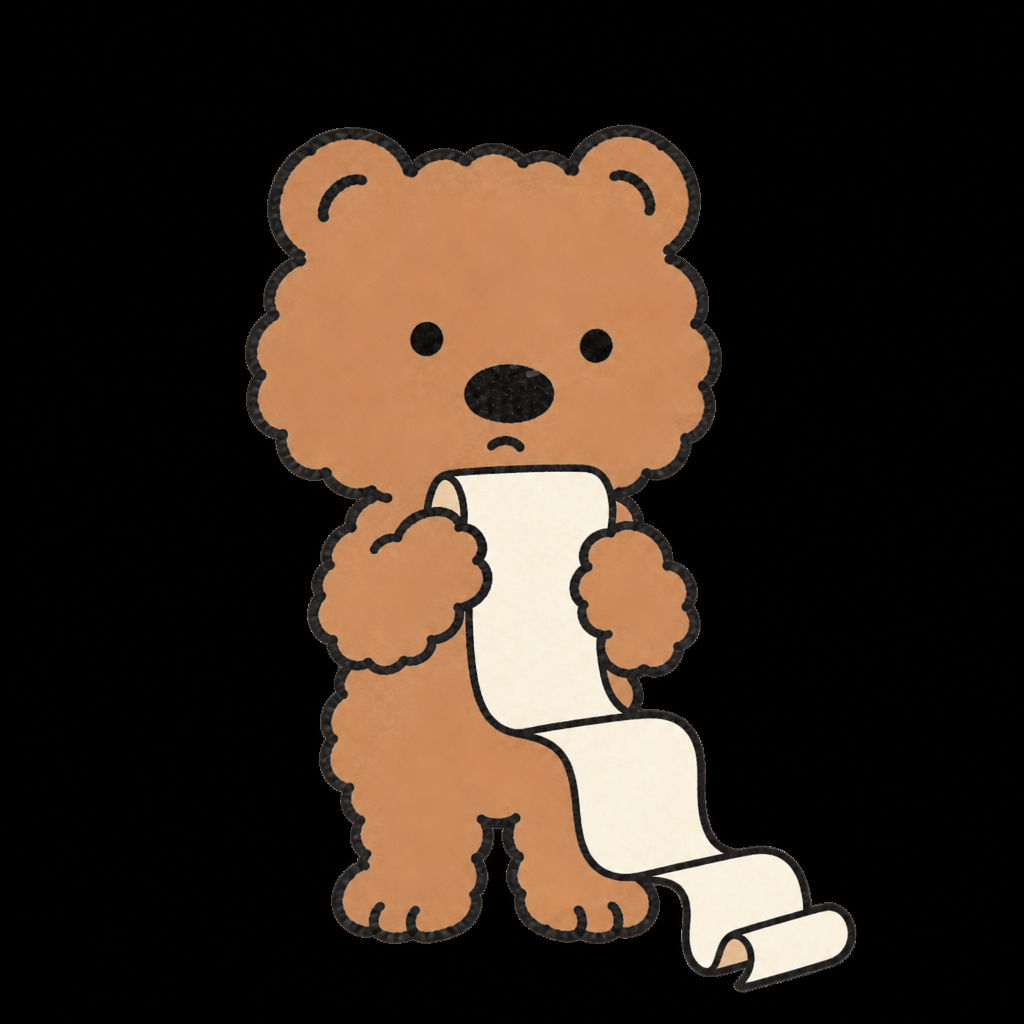
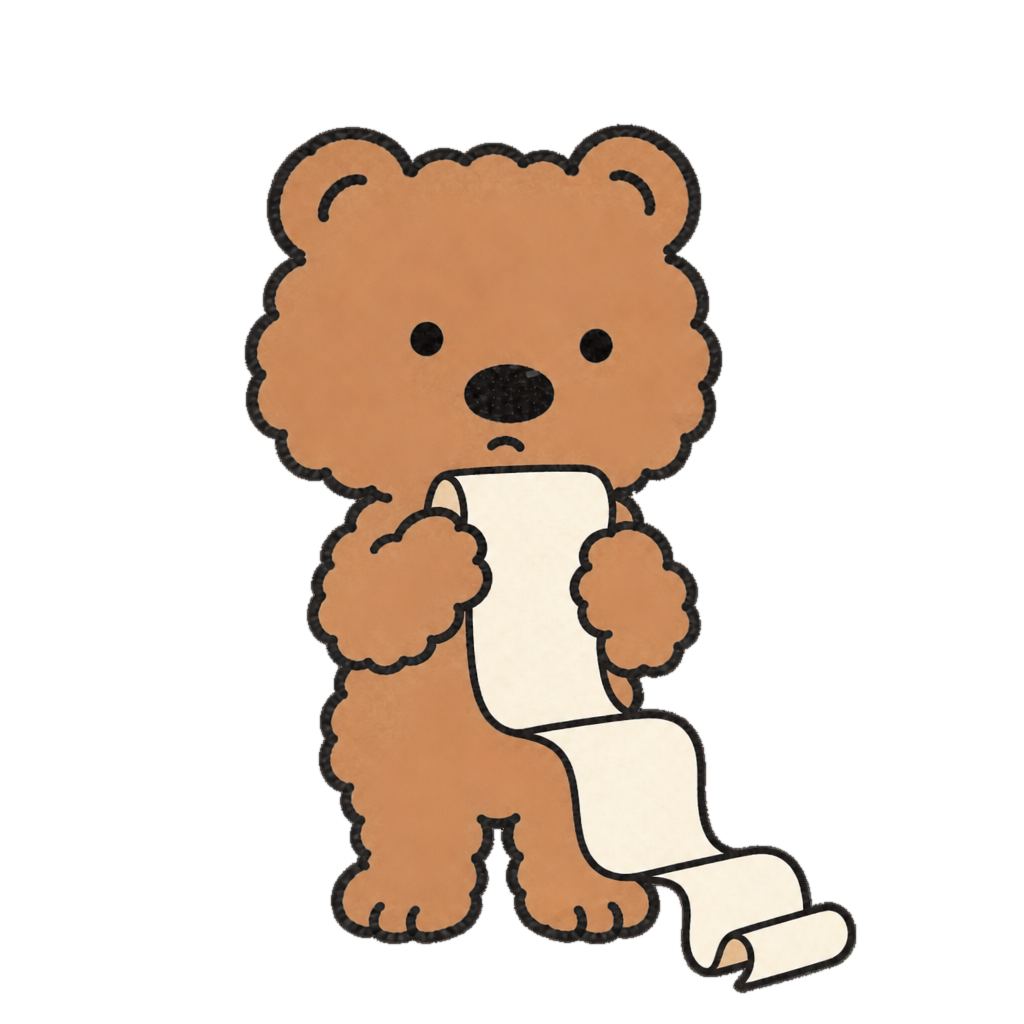
새 동물 이미지 누끼와 제작 가이드 보정

diff --git a/scripts/clean-companion-alpha.py b/scripts/clean-companion-alpha.py
@@ -1,0 +1,169 @@
+"""Remove pale background residue from companion PNGs without thickening outlines.
+
+The generated companions already contain an alpha channel, but some sprites retain
+opaque or semi-transparent off-white matte pixels outside the ink outline.  This
+script removes only pale, low-chroma pixels connected to the transparent exterior,
+then decontaminates remaining anti-aliased edge RGB from nearby opaque artwork.
+"""
+
+from __future__ import annotations
+
+from collections import deque
+from pathlib import Path
+
+import numpy as np
+from PIL import Image, ImageFilter
+
+
+ROOT = Path(__file__).resolve().parents[1]
+COMPANIONS = ROOT / "web/public/assets/characters/companions"
+ACTIVE_SETS = ("foodie", "shopper", "subscriber")
+
+
+def exterior_matte(rgb: np.ndarray, alpha: np.ndarray) -> np.ndarray:
+    """Find pale neutral matte pixels connected to the transparent exterior."""
+    maximum = rgb.max(axis=2)
+    minimum = rgb.min(axis=2)
+    candidate = (minimum >= 210) & ((maximum - minimum) <= 38) & (alpha > 0)
+    transparent = alpha <= 4
+    height, width = alpha.shape
+    visited = np.zeros_like(candidate)
+    queue: deque[tuple[int, int]] = deque()
+
+    # Matte pixels must touch existing transparency. This avoids erasing light fur
+    # and the white receipt enclosed by the character's dark ink outline.
+    ys, xs = np.nonzero(candidate)
+    for y, x in zip(ys.tolist(), xs.tolist()):
+        y0, y1 = max(0, y - 1), min(height, y + 2)
+        x0, x1 = max(0, x - 1), min(width, x + 2)
+        if transparent[y0:y1, x0:x1].any():
+            visited[y, x] = True
+            queue.append((y, x))
+
+    while queue:
+        y, x = queue.popleft()
+        for ny in range(max(0, y - 1), min(height, y + 2)):
+            for nx in range(max(0, x - 1), min(width, x + 2)):
+                if candidate[ny, nx] and not visited[ny, nx]:
+                    visited[ny, nx] = True
+                    queue.append((ny, nx))
+    return visited
+
+
+def decontaminate_edges(rgb: np.ndarray, alpha: np.ndarray) -> None:
+    """Copy nearby solid artwork colour into semi-transparent edge pixels."""
+    edge = (alpha > 4) & (alpha < 245)
+    solid = alpha >= 245
+    height, width = alpha.shape
+    for y, x in zip(*np.nonzero(edge)):
+        best: tuple[int, int] | None = None
+        best_distance = 99
+        for radius in range(1, 5):
+            y0, y1 = max(0, y - radius), min(height, y + radius + 1)
+            x0, x1 = max(0, x - radius), min(width, x + radius + 1)
+            sy, sx = np.nonzero(solid[y0:y1, x0:x1])
+            for local_y, local_x in zip(sy.tolist(), sx.tolist()):
+                ny, nx = y0 + local_y, x0 + local_x
+                distance = abs(ny - y) + abs(nx - x)
+                if distance < best_distance:
+                    best = (ny, nx)
+                    best_distance = distance
+            if best is not None:
+                break
+        if best is not None:
+            rgb[y, x] = rgb[best]
+
+
+def rebuild_antialiased_edge(rgb: np.ndarray, alpha: np.ndarray) -> np.ndarray:
+    """Rebuild a soft 1 px alpha edge around a binary, hard-cut silhouette."""
+    filled = alpha >= 128
+    extended = filled.copy()
+    # Carry real edge colours a few pixels outward before feathering. Otherwise
+    # transparent black RGB becomes a dark halo when the browser scales a sprite.
+    for _ in range(3):
+        sums = np.zeros_like(rgb, dtype=np.uint32)
+        counts = np.zeros(alpha.shape, dtype=np.uint16)
+        for dy in (-1, 0, 1):
+            for dx in (-1, 0, 1):
+                if dy == 0 and dx == 0:
+                    continue
+                shifted_mask = np.roll(np.roll(extended, dy, axis=0), dx, axis=1)
+                shifted_rgb = np.roll(np.roll(rgb, dy, axis=0), dx, axis=1)
+                sums += shifted_rgb.astype(np.uint32) * shifted_mask[:, :, None]
+                counts += shifted_mask.astype(np.uint16)
+        grow = (~extended) & (counts > 0)
+        rgb[grow] = (sums[grow] / counts[grow, None]).astype(np.uint8)
+        extended |= grow
+
+    mask_image = Image.fromarray((filled.astype(np.uint8) * 255), "L")
+    return np.array(mask_image.filter(ImageFilter.GaussianBlur(radius=0.72)))
+
+
+def keep_primary_component(rgb: np.ndarray, alpha: np.ndarray) -> int:
+    """Remove detached checker/matte islands while retaining the main sprite."""
+    mask = alpha >= 128
+    height, width = mask.shape
+    seen = np.zeros_like(mask)
+    largest: list[tuple[int, int]] = []
+
+    for start_y, start_x in zip(*np.nonzero(mask)):
+        if seen[start_y, start_x]:
+            continue
+        component: list[tuple[int, int]] = []
+        queue: deque[tuple[int, int]] = deque([(int(start_y), int(start_x))])
+        seen[start_y, start_x] = True
+        while queue:
+            y, x = queue.popleft()
+            component.append((y, x))
+            for ny in range(max(0, y - 1), min(height, y + 2)):
+                for nx in range(max(0, x - 1), min(width, x + 2)):
+                    if mask[ny, nx] and not seen[ny, nx]:
+                        seen[ny, nx] = True
+                        queue.append((ny, nx))
+        if len(component) > len(largest):
+            largest = component
+
+    keep = np.zeros_like(mask)
+    if largest:
+        ys, xs = zip(*largest)
+        keep[np.array(ys), np.array(xs)] = True
+    removed = int((mask & ~keep).sum())
+    alpha[~keep] = 0
+    rgb[~keep] = 0
+    return removed
+
+
+def clean(path: Path) -> tuple[int, int]:
+    with Image.open(path) as source:
+        pixels = np.array(source.convert("RGBA"))
+    rgb = pixels[:, :, :3]
+    alpha = pixels[:, :, 3]
+
+    matte = exterior_matte(rgb, alpha)
+    removed = int(matte.sum())
+    alpha[matte] = 0
+    rgb[matte] = 0
+
+    detached = keep_primary_component(rgb, alpha)
+
+    edge_count = int(((alpha > 4) & (alpha < 245)).sum())
+    decontaminate_edges(rgb, alpha)
+    alpha = rebuild_antialiased_edge(rgb, alpha)
+
+    pixels[:, :, :3] = rgb
+    pixels[:, :, 3] = alpha
+    temporary = path.with_name(f"{path.stem}.clean-tmp.png")
+    Image.fromarray(pixels, "RGBA").save(temporary, optimize=True)
+    temporary.replace(path)
+    return removed + detached, edge_count
+
+
+def main() -> None:
+    for companion in ACTIVE_SETS:
+        for path in sorted((COMPANIONS / companion).glob("*.png")):
+            removed, edges = clean(path)
+            print(f"{companion}/{path.name}: removed={removed}, defringed={edges}")
+
+
+if __name__ == "__main__":
+    main()

diff --git a/web/public/assets/characters/companions/guide.md b/web/public/assets/characters/companions/guide.md
@@ -13,3 +13,53 @@
 표시 예: `초코 · 심야출출대장`
 
 카피바라 보관: `_archive/capybara/`
+
+## 이미지 제작 규칙 — 반드시 준수
+
+### 1. 상태와 파일 규격
+
+- 각 동물은 `neutral`, `chubby`, `very-chubby`, `receipt`, `eating` 5상태를 모두 준비합니다.
+- 파일명은 `dog-neutral.png`, `dog-chubby.png`, `dog-very-chubby.png`, `dog-receipt.png`, `dog-eating.png`로 고정합니다.
+- 현재 컴패니언 캔버스는 상태별로 모두 `1024×1024`입니다. 임의로 확대·축소하거나 비율을 변경하지 않습니다.
+- 포즈와 소품은 눈찌의 같은 상태를 기준으로 맞추되, 동물의 얼굴과 실루엣은 상태 사이에서 동일하게 유지합니다.
+
+### 2. 투명 배경과 누끼
+
+1. 결과물은 생성 단계부터 **완전 투명 RGBA PNG**로 출력합니다.
+2. 검정·흰색·회색 배경을 넣은 뒤 색상 선택이나 색상 키로 지우지 않습니다.
+3. 포토샵 등의 투명 체커보드 화면을 캡처하거나 체커보드 무늬 자체를 이미지에 포함하지 않습니다.
+4. 네 모서리 픽셀의 알파값은 모두 `0`이어야 합니다.
+5. 가장자리는 `0`과 `255`만 있는 딱딱한 이진 누끼가 아니라 자연스러운 반투명 알파 단계를 가져야 합니다.
+6. 투명 영역에 흰색 또는 검정색 매트 RGB를 남기지 않습니다. 브라우저에서 축소하면 흰 테두리나 검은 번짐으로 보입니다.
+
+### 3. 외곽선 보존
+
+- 원본의 얇고 조금 불규칙한 손그림 외곽선을 그대로 유지합니다.
+- 누끼 잔상을 가리려고 검은색을 덧칠하거나 외곽선을 굵게 만들지 않습니다.
+- `thick outline`, `bold outline`, `sticker border`, 흰색 테두리, 이중 테두리를 금지합니다.
+- 털 끝이나 귀를 배경과 함께 잘라내지 않습니다. 배경 조각만 제거해야 합니다.
+- 누끼 때문에 얼굴, 손, 발, 꼬리, 영수증 또는 음식 형태를 다시 그리지 않습니다.
+
+### 4. 최종 검수 — 저장 전에 전부 확인
+
+- [ ] `1024×1024` RGBA PNG인가
+- [ ] 네 모서리 알파값이 모두 `0`인가
+- [ ] 밝은 크림 배경에서 흰 테두리·체커 조각이 없는가
+- [ ] 짙은 회색 배경에서 검은 번짐·검정 판이 없는가
+- [ ] 캐릭터 외곽선 굵기가 같은 동물의 다른 상태와 동일한가
+- [ ] 브라우저에서 작게 축소했을 때도 테두리가 깨끗한가
+- [ ] 5상태 모두 같은 동물로 보이고 크기와 중심이 지나치게 흔들리지 않는가
+
+### 5. 이미 누끼가 잘못된 경우
+
+- 원본 생성 파일이 있다면 원본에서 배경을 다시 분리하는 것을 우선합니다.
+- 검은 외곽선을 덧칠하는 `fix-white-border.py` 방식은 사용하지 않습니다.
+- 현재 프로젝트의 보조 스크립트는 `scripts/clean-companion-alpha.py`입니다.
+- 보조 스크립트는 활성 컴패니언의 분리된 배경 조각과 딱딱한 알파 가장자리를 정리합니다.
+- 스크립트 실행 후 결과를 무조건 채택하지 말고 밝은 배경과 어두운 배경 검수본을 먼저 확인합니다.
+
+```powershell
+python scripts\clean-companion-alpha.py
+```
+
+누끼가 캐릭터 외곽선과 붙어서 자동 정리 시 털이나 소품까지 잘릴 가능성이 있다면 자동 보정을 반복하지 말고 해당 이미지 한 장만 원본 기준으로 다시 편집합니다.

diff --git a/web/public/assets/characters/guide.md b/web/public/assets/characters/guide.md
@@ -182,6 +182,9 @@ hop/nod/walk는 CSS 공용. idle만 만들고 끝내지 말 것.
 | `subscriber` | 월스티 | `companions/subscriber/` | 라벤더 스카프 조각 |
 
 각 폴더에 `dog-neutral|chubby|very-chubby|receipt|eating.png` 5장 필수.  
-배경은 맨몸과 같이 **솔리드 블랙** (앱에서 투명 처리).  
+배경은 맨몸과 같이 **완전 투명 RGBA**. 검정·흰색 배경을 넣거나 앱에서 색상 키로 지우지 않습니다.  
+체커보드가 보이는 편집기 화면을 이미지로 저장하거나, 검정 배경 PNG를 투명 처리한 결과물을 사용하지 않습니다.  
+외곽선은 원본 그대로 보존하며 누끼 잔상을 가리기 위해 검은 선을 굵게 덧칠하지 않습니다.  
+최종 파일은 밝은 배경과 어두운 배경에 각각 합성해 흰 테두리·검은 번짐·체커 조각이 없는지 확인합니다.  
 코드: `CompanionId`, `companionDogStates`, 온보딩 설문 → `spendingType` / `companionId` 저장.  
-자세한 규칙은 `companions/guide.md` 참고.
+**새 동물을 만들거나 누끼를 수정하기 전에 반드시 `companions/guide.md`를 먼저 읽습니다.**
